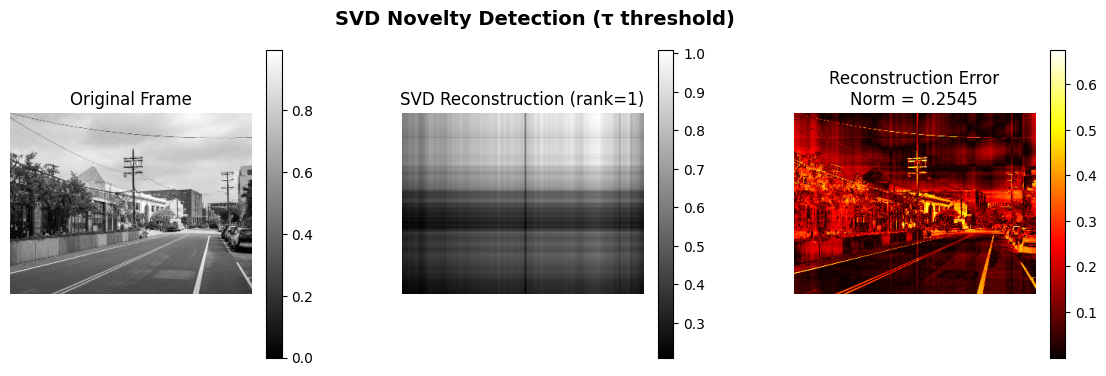
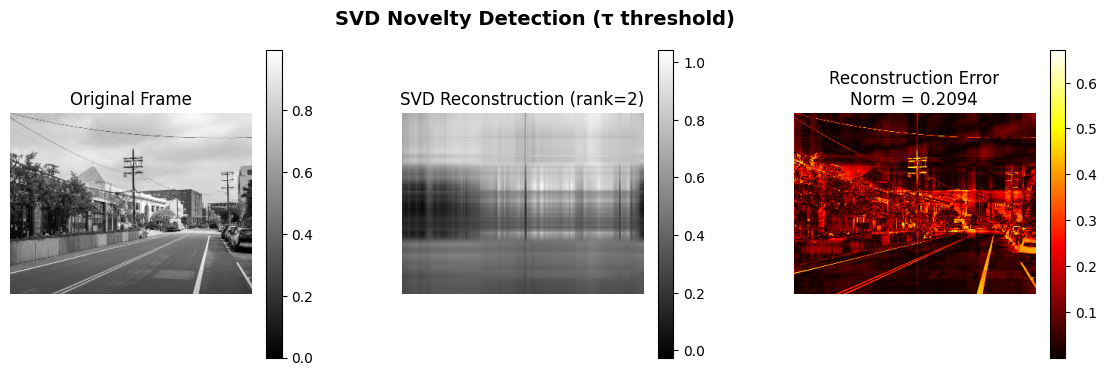
making loop for comparing frames in different parameters

diff --git a/main_test1.py b/main_test1.py
@@ -6,7 +6,7 @@ from typing import Dict, Any
 from ai.detection_ai_test1 import AIDetectionModule
 from preprocessing.image_preprocessing_test1 import FramePreprocessor
 from svd.svd_test2 import SVDNoveltyDetector
-
+import csv
 import logging
 logger = logging.getLogger(__name__)
 
@@ -80,7 +80,7 @@ class SVDGatekeeperSystem:
         logger.info("\nStarting frame processing...")
         logger.info("-" * 70)
         
-        prev_frame = None
+        self.reference_frame_error = None
         
         for frame_idx, frame in self.preprocessor.get_next_frame():
             frame_start_time = time.time()
@@ -88,14 +88,21 @@ class SVDGatekeeperSystem:
             
             # Compute reconstruction error
             error, frame_reconstructed = self.svd_detector.compare_frames(frame)
+            if self.reference_frame_error == None:
+                self.reference_frame_error = error  # Set baseline for first frame
+                detections = self.ai_module.run_detection_ai(frame)
+                self.metrics.ai_calls += 1
+
             self.metrics.total_error += error
             
             # Decision: is this frame novel?
-            is_novel = error > self.threshold
+            is_novel = abs(error - self.reference_frame_error) > self.threshold
             
             if is_novel:
                 self.metrics.novel_frames += 1
-                logger.warning(f"[Frame {frame_idx}] NOVELTY DETECTED | Error: {error:.4f} > τ:{self.threshold}")
+                logger.warning(f"[Frame {frame_idx}] NOVELTY DETECTED | Error: {error:.4f}")
+                logger.warning(f"[Frame {frame_idx}] NOVELTY DETECTED | Error difference: {abs(error - self.reference_frame_error):.4f} > τ:{self.threshold}")
+                self.reference_frame_error = error  # Update reference error
                 
                 # Trigger AI model
                 detections = self.ai_module.run_detection_ai(frame)
@@ -108,6 +115,7 @@ class SVDGatekeeperSystem:
                                                          error, save_path=plot_name)
             else:
                 logger.info(f"[Frame {frame_idx}] Skipped (not novel) | Error: {error:.4f}")
+                logger.info(f"[Frame {frame_idx}] Skipped (not novel) | Error difference: {abs(error - self.reference_frame_error):.4f}")
             
             frame_time = time.time() - frame_start_time
             self.metrics.frame_times.append(frame_time)
@@ -140,50 +148,47 @@ class SVDGatekeeperSystem:
 
 def main():
     """Main entry point with CLI argument parsing."""
-    parser = argparse.ArgumentParser(
-        description="SVD-Based Novelty Detection Gatekeeper"
-    )
-    parser.add_argument('input_path', help='Path to image folder or .mp4 video')
-    parser.add_argument('--threshold', type=float, default=0.15, 
-                       help='Novelty threshold τ (default: 0.15)')
-    parser.add_argument('--rank', type=int, default=20,
-                       help='SVD compression rank k (default: 20)')
-    parser.add_argument('--window', type=int, default=1,
-                       help='Difference window W (default: 1)')
-    parser.add_argument('--size', type=str, default='240,320',
-                       help='Target frame size H,W (default: 240,320)')
-    parser.add_argument('--plots', action='store_true',
-                       help='Display reconstruction plots')
-    parser.add_argument('--mock-ai', action='store_true',
-                       help='Use mock AI instead of YOLO')
-    
-    args = parser.parse_args()
     
     # Parse target size
-    try:
-        target_size = tuple(map(int, args.size.split(',')))
-        if len(target_size) != 2:
-            raise ValueError
-    except:
-        logger.error("Invalid size format. Use H,W (e.g., 240,320)")
-        return
-    
-    # Create and run system
-    system = SVDGatekeeperSystem(
-        threshold=args.threshold,
-        compression_rank=args.rank,
-        difference_window=args.window,
-        target_size=target_size,
-        display_plots=args.plots,
-        use_mock_ai=args.mock_ai
-    )
-    
-    try:
-        system.process_input(args.input_path)
-        system.process_frames()
-        system.print_summary_report()
-    except Exception as e:
-        logger.error(f"Error during processing: {e}", exc_info=True)
+
+    threshold = 0.01
+    rank = 1
+    window = 1
+    target_size = (240, 320)
+    plots = True
+    mock_ai = False
+    input_path = "data/" # Default path; replace with actual path or CLI arg
+
+    with open('results.csv', mode='w', newline='') as log_file:
+        fieldnames = ['Threshold', 'Rank', 'Total Frames', 'Novel Frames', 
+                      'AI Calls', 'Efficiency (%)', 'Avg Time (ms)', 'Throughput (fps)']
+        writer = csv.writer(log_file)
+        writer.writerow(fieldnames)
+
+        # Create and run system
+        while rank < 20:
+            threshold = 0.01
+            while threshold < 0.1:
+                system = SVDGatekeeperSystem(
+                    threshold=round(threshold, 2),
+                    compression_rank=rank,
+                    difference_window=window,
+                    target_size=target_size,
+                    display_plots=plots,
+                    use_mock_ai=mock_ai
+                )
+                try:
+                    system.process_input(input_path)
+                    system.process_frames()
+                    system.print_summary_report()
+                    writer.writerow([f"{threshold:.2f}", f"{rank}", f"{system.metrics.total_frames}", f"{system.metrics.novel_frames}", f"{system.metrics.ai_calls}",
+                                    f"{(1.0 - system.metrics.ai_calls / system.metrics.total_frames) * 100}",
+                                    f"{((system.metrics.total_time / system.metrics.total_frames)*1000):.2f}",
+                                    f"{(system.metrics.total_frames / system.metrics.total_time):.2f}"])
+                except Exception as e:
+                    logger.error(f"Error during processing: {e}", exc_info=True)
+                threshold += 0.01
+            rank += 1
 
 if __name__ == "__main__":
     main()
